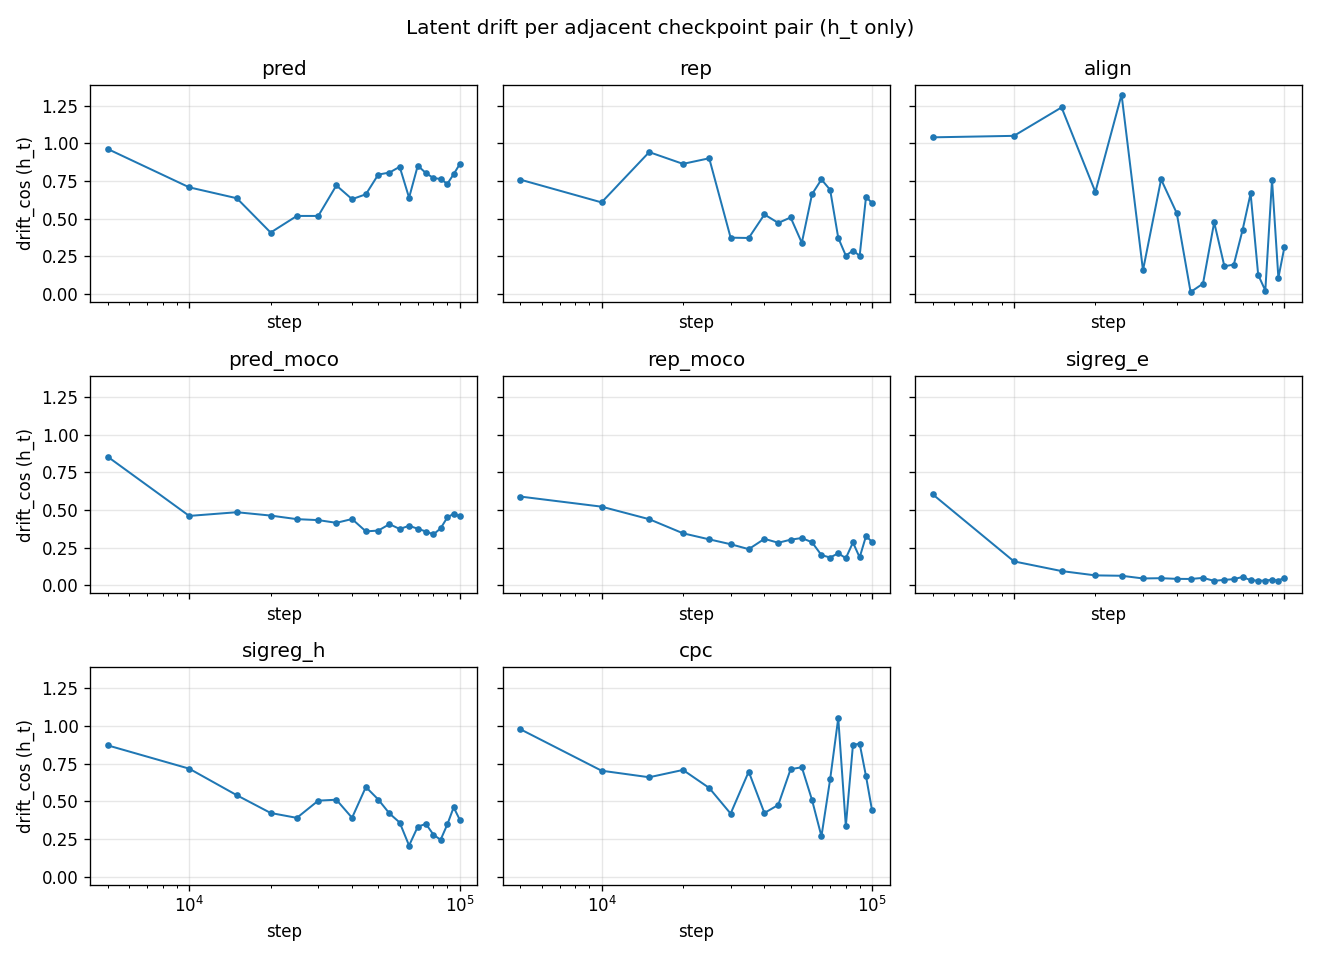
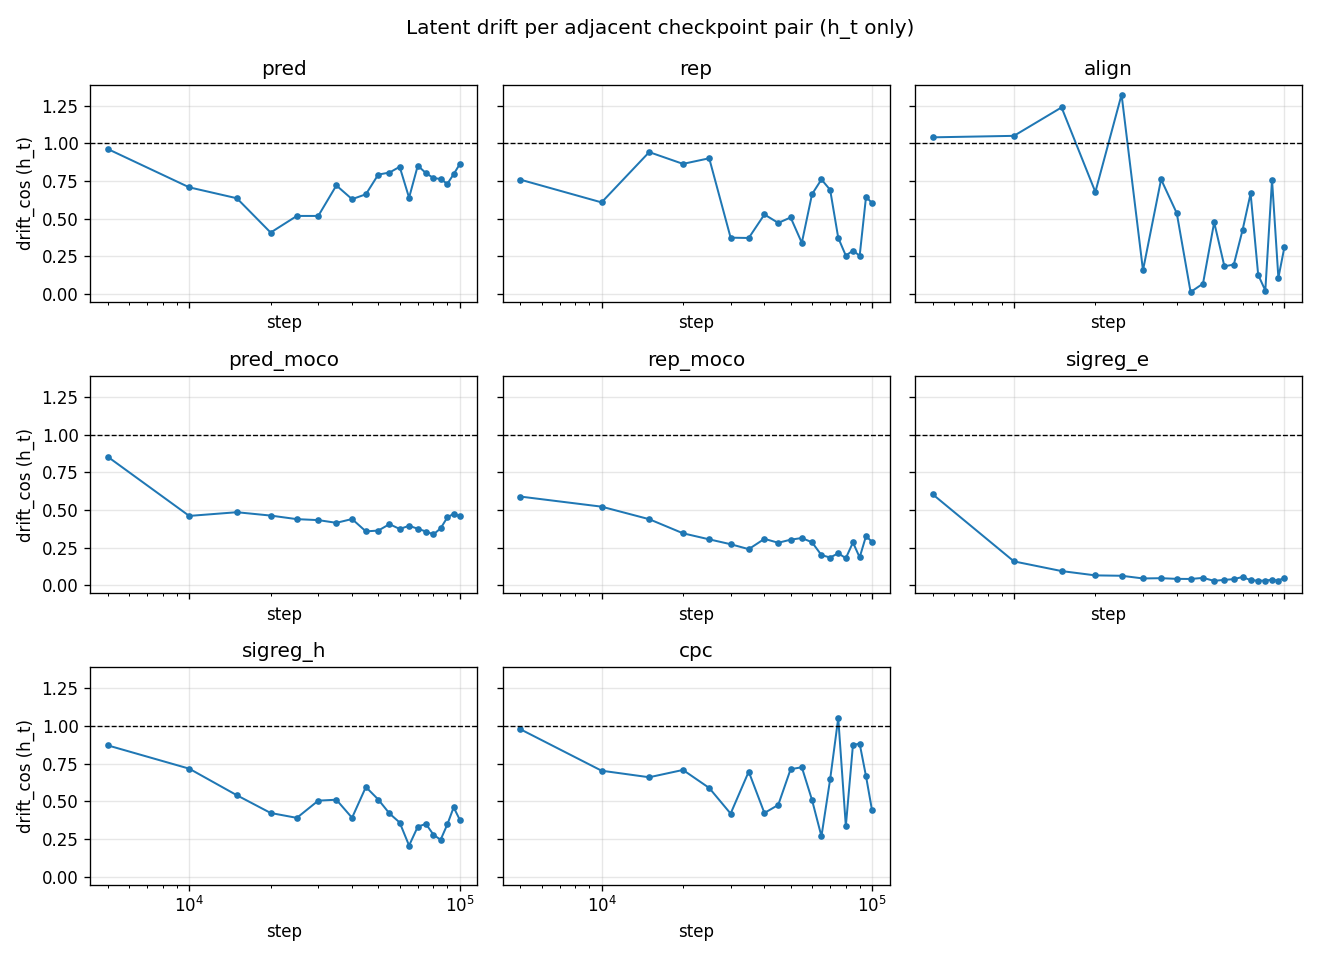
report(#382): v3b — add drift=1 ceiling reference line to headline figure

diff --git a/experiments/2026-07-28_loss_term_isolation/scripts/make_latent_movement_per_arm.py b/experiments/2026-07-28_loss_term_isolation/scripts/make_latent_movement_per_arm.py
@@ -81,6 +81,8 @@ def main():
             steps = [r[1] for r in rs]
             drifts = [r[3] for r in rs]
             ax.plot(steps, drifts, lw=1.2, marker="o", ms=3)
+        ax.axhline(1.0, color="black", linestyle="--", linewidth=0.8,
+                   label="drift = 1 (ceiling reference)")
         ax.set_title(arm)
         ax.set_xscale("log")
         ax.set_xlabel("step")

diff --git a/reports/2026-07-28_loss_term_isolation/loss_term_isolation.md b/reports/2026-07-28_loss_term_isolation/loss_term_isolation.md
@@ -4,7 +4,7 @@ Trained alone for 100k steps on the small backbone, `h_t` drift on a fixed held-
 
 ## Headline figure
 
-![Per-arm h_t drift trajectory, one value per adjacent 5k-step checkpoint pair, drift_cos_h in [0,2] on a linear y-axis, log training step on x. One panel per arm.](plots/latent_movement_per_arm.png)
+![Per-arm h_t drift trajectory, one value per adjacent 5k-step checkpoint pair, drift_cos_h in [0,2] on a linear y-axis, log training step on x. One panel per arm; black dashed line at drift = 1 for scale reference.](plots/latent_movement_per_arm.png)
 
 Drift trend per arm, grouped by direction. Early drift is the mean over steps 5k–25k, late drift the mean over steps 80k–100k, slope the log-linear fit of `drift_cos_h` against `log10(step)` over the full 5k–100k range. Within each group, arms are ordered by decreasing slope magnitude. Values from `results/latent_movement_per_arm.csv`.
 
